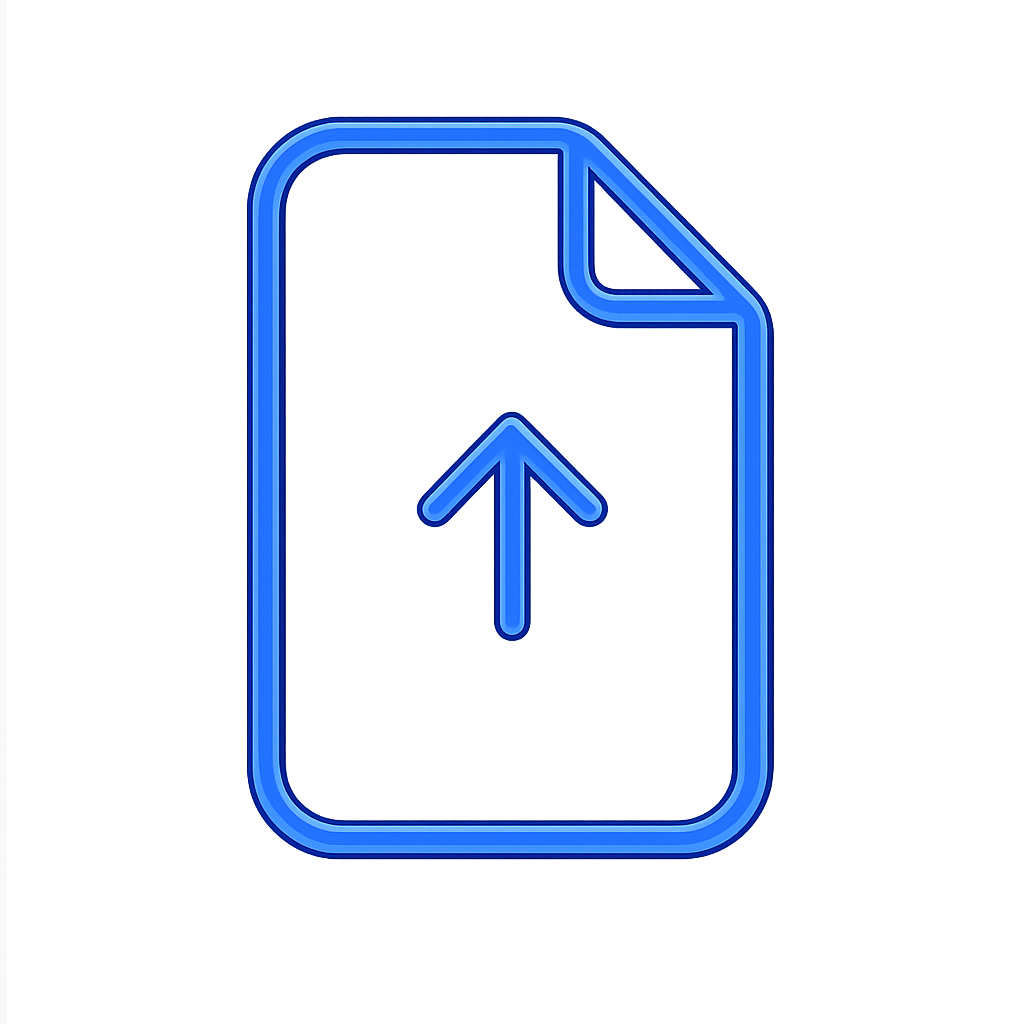
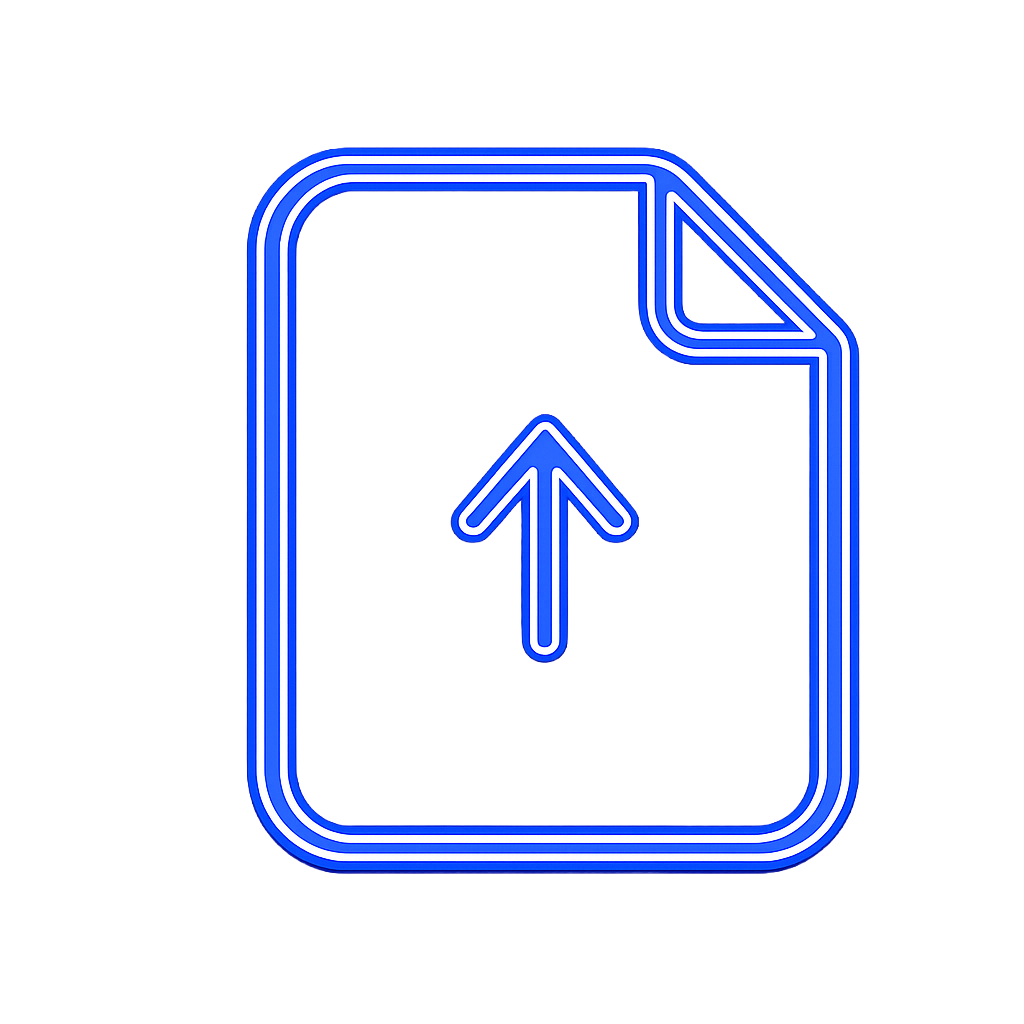
Adicionado botões Importar NF/Abastecimento/Ajuda. Necessário corrigir entrada de dados na área tracejada

Changed region(s): [[0.2188, 0.0938, 0.8438, 0.875], [0.4062, 0.4062, 0.625, 0.6562]]

diff --git a/gui/frame_esquerdo.py b/gui/frame_esquerdo.py
@@ -17,8 +17,10 @@ def frame_e(janela):
     nome_app(frame_esquerdo)
     texto_app(frame_esquerdo)
     botao_importar(frame_esquerdo)
-
-
+    botao_abastesimento(frame_esquerdo)
+    linha_ajuda(frame_esquerdo)
+    botao_ajuda(frame_esquerdo)
+    
 def imagem_principal(frame):
     imagem = ctk.CTkImage(
         light_image=Image.open("assets/imagens/imagem_leitor.png"),
@@ -54,7 +56,7 @@ def botao_importar(frame):
     imagem_importar = ctk.CTkImage(
         light_image=Image.open("assets/imagens/importar_arquivos.png"),
         dark_image=Image.open("assets/imagens/importar_arquivos.png"),
-        size=(40, 40),
+        size=(35, 35),
     )
 
     
@@ -65,11 +67,67 @@ def botao_importar(frame):
         compound="left",
         width=150,
         height=40,
-        fg_color="#1E52A7",
-        hover_color="#2563EB",
+        fg_color="#0E3E8B",
+        hover_color="#1B58DD",
         corner_radius=20,
         text_color="white",
         font=("Arial", 15, "bold")
     )
 
     centralizar_widget(botao_importar, frame, y=220)
+
+def botao_abastesimento (frame):
+    imagem_abastecimento = ctk.CTkImage(
+        light_image=Image.open("assets/imagens/abastecimento.png"),
+        dark_image=Image.open("assets/imagens/abastecimento.png"),
+        size=(28, 28),
+    )
+
+    botao_abastecimento = ctk.CTkButton(
+        frame,
+        text="Abastecimento",
+        image=imagem_abastecimento,
+        compound="left",
+        width=150,
+        height=40,
+        fg_color="#0E3E8B",
+        hover_color="#1B58DD",
+        corner_radius=20,
+        text_color="white",
+        font=("Arial", 15, "bold")
+    )
+
+    centralizar_widget(botao_abastecimento, frame, y=270)
+
+def linha_ajuda (frame):
+    linha = ctk.CTkFrame(
+        master=frame,
+        width=180,
+        height=2,
+        fg_color="darkgrey"
+    )
+
+    centralizar_widget(linha, frame, y=530)
+
+def botao_ajuda (frame):
+    imagem_ajuda = ctk.CTkImage(
+        light_image=Image.open("assets/imagens/botao_ajuda.png"),
+        dark_image=Image.open("assets/imagens/botao_ajuda.png"),
+        size=(28, 28),
+    )
+
+    botao_ajuda = ctk.CTkButton(
+        frame,
+        text="Ajuda",
+        image=imagem_ajuda,
+        compound="left",
+        width=150,
+        height=40,
+        fg_color="#172554",
+        hover_color="#1B58DD",
+        corner_radius=20,
+        text_color="grey",
+        font=("Arial", 15, "bold")
+    )
+
+    centralizar_widget(botao_ajuda, frame, y=555)

diff --git a/gui/frame_principal.py b/gui/frame_principal.py
@@ -18,6 +18,7 @@ def frame_p(janela):
     sub_importar(frame_principal)
     imagem_tracejada(frame_principal)
     frame_tracejado(frame_principal) 
+    imagem_importar_arquivos(frame_principal)
     
 
 def texto_importarNFe(frame):
@@ -57,6 +58,22 @@ def frame_tracejado (frame):
         
     )
     frame_tracejado.place(x=40, y=125)
+
+def imagem_importar_arquivos(frame):
+    imagem_importar = ctk.CTkImage(
+        light_image=Image.open("assets/imagens/importar_arquivos.png"),
+        dark_image=Image.open("assets/imagens/importar_arquivos.png"),
+        size=(100, 100),
+        
+    )
+    label_imagem = ctk.CTkLabel(
+    frame,
+    image=imagem_importar,
+    text="",
+    fg_color=frame.cget("fg_color")
+)
+    label_imagem.place(x=340, y=170)
+
 
 
 

diff --git a/config/configuracoes.py b/config/configuracoes.py
@@ -6,3 +6,4 @@ def configuracoes_janela (janela):
     janela.resizable(False, False)
     janela.configure (fg_color = "#0F172A")
     janela.iconbitmap("assets/icones/icone_leitor.ico")
+    janela.title("Leitor De NF-e")

diff --git a/gui/tela_inicial.py b/gui/tela_inicial.py
@@ -1,7 +1,7 @@
 import customtkinter as ctk
 from gui.frame_esquerdo import frame_e
 from gui.frame_principal import frame_p
-from gui.frame_esquerdo import imagem_principal
+
 
 
 def criar_tela_inicial(janela):
